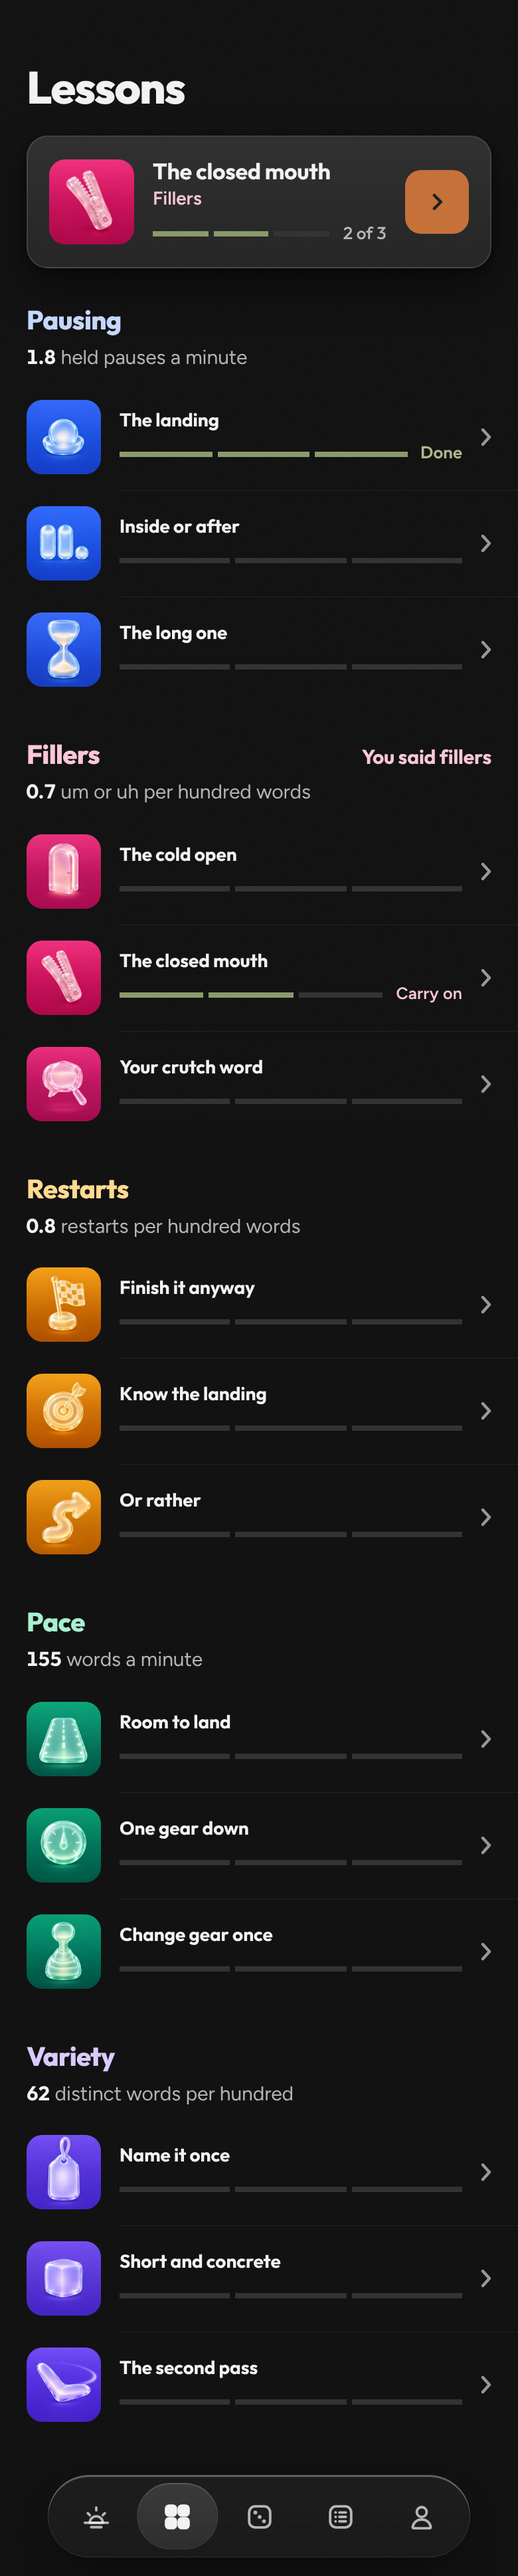
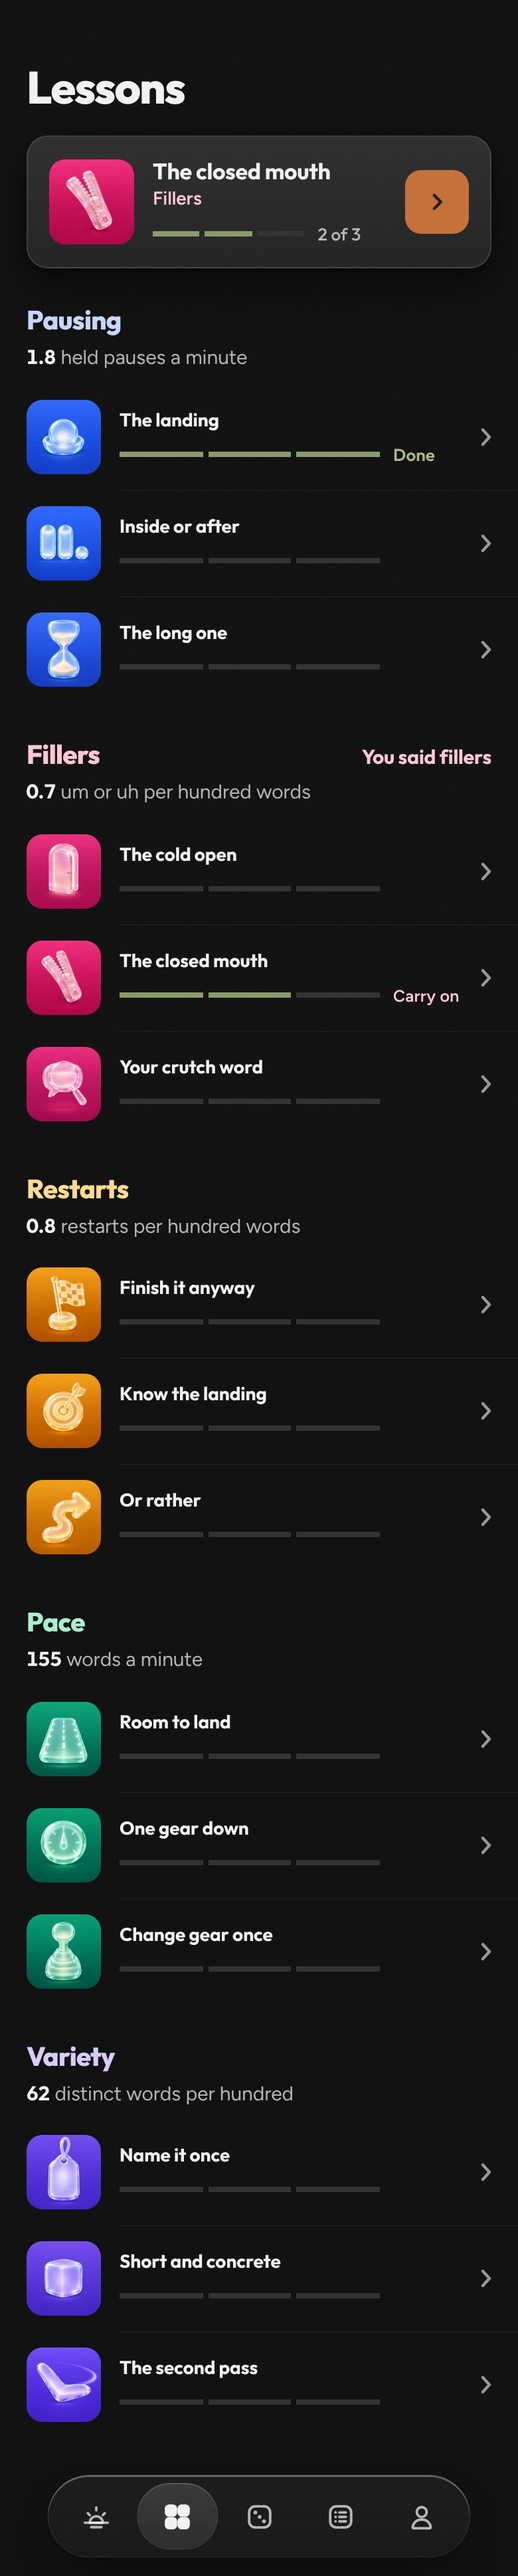
B2: the look loop on Lessons: bars end together, titles never truncate, skeletons hold height
Every progress bar ends at the same x (a fixed 52px label slot); the Up
next title wraps at 320 instead of ending in an ellipsis; the lesson
page's 'Your number' skeleton matches its real height. Squint shots added.

Claude-Session: https://claude.ai/code/session_01KQpi1wPL2sdqgKKvt94vrP

Changed region(s): [[0.7692, 0.3744, 0.8, 0.4056]]

diff --git a/app/lessons/[id]/page.tsx b/app/lessons/[id]/page.tsx
@@ -88,7 +88,11 @@ export default function LessonPage() {
       data-trait={lesson.trait}
       className="mx-auto flex min-h-dvh max-w-[430px] flex-col px-5 pt-4"
     >
-      <BackLink href="/lessons" label="Lessons" className="relative z-[1] self-start" />
+      <BackLink
+        href="/lessons"
+        label="Lessons"
+        className="relative z-[1] self-start"
+      />
 
       {/*
        * The stage (M06, Imprint's lesson sheet): the art stands on a dome
@@ -107,7 +111,9 @@ export default function LessonPage() {
         <LessonArt lesson={lesson} size={120} radius="rounded-card" eager />
       </div>
       <TraitChip trait={lesson.trait} size="md" className="mt-4 self-center" />
-      <h1 className="font-display mt-3 text-center text-title">{lesson.title}</h1>
+      <h1 className="font-display mt-3 text-center text-title">
+        {lesson.title}
+      </h1>
 
       {/*
        * Your number: where the trait this lesson works on stood on the
@@ -117,8 +123,8 @@ export default function LessonPage() {
        */}
       {reading === undefined && !failed && (
         <div aria-hidden className="mt-7">
-          <Skeleton className="h-[22px] w-28" rounded="rounded-none" />
-          <Skeleton className="mt-3 h-[25px] w-56" rounded="rounded-none" />
+          <Skeleton className="h-[22.125px] w-28" rounded="rounded-none" />
+          <Skeleton className="mt-3 h-[26.5px] w-56" rounded="rounded-none" />
         </div>
       )}
       {shown !== null && (
@@ -128,7 +134,9 @@ export default function LessonPage() {
             <span className="text-caption text-stone-500">Last recording</span>
           </div>
           <p className="mt-3 flex flex-wrap items-baseline gap-x-1.5">
-            <span className="font-display text-num-m tabular-nums">{shown}</span>
+            <span className="font-display text-num-m tabular-nums">
+              {shown}
+            </span>
             <span className="text-body text-stone-500">
               {shown === "1" ? trait.unitOne : trait.unit}
             </span>
@@ -159,7 +167,11 @@ export default function LessonPage() {
           const here = known && !complete && n === next;
           const mod = p.mods?.[0] ? modById(p.mods[0]) : null;
           return (
-            <li key={n} data-done={known ? did : undefined} className="flex gap-3.5">
+            <li
+              key={n}
+              data-done={known ? did : undefined}
+              className="flex gap-3.5"
+            >
               <span
                 aria-hidden
                 className={`font-display flex h-8 w-8 shrink-0 items-center justify-center rounded-[8px] text-row font-extrabold tabular-nums ${
@@ -177,7 +189,9 @@ export default function LessonPage() {
                   Practice {n}
                   {did ? ", done" : here ? ", next" : ""}.{" "}
                 </span>
-                <p className={`text-read text-pretty ${did ? "text-stone-500" : "text-stone-800"}`}>
+                <p
+                  className={`text-read text-pretty ${did ? "text-stone-500" : "text-stone-800"}`}
+                >
                   {p.prompt}
                 </p>
                 {/*
@@ -189,7 +203,8 @@ export default function LessonPage() {
                  */}
                 {mod && (
                   <p className="mt-1.5 text-caption text-stone-500">
-                    <span className="font-semibold text-ink">{mod.name}:</span> {mod.blurb}
+                    <span className="font-semibold text-ink">{mod.name}:</span>{" "}
+                    {mod.blurb}
                   </p>
                 )}
               </div>
@@ -209,7 +224,10 @@ export default function LessonPage() {
        */}
       <div
         className="sticky bottom-0 z-[1] -mx-5 mt-auto px-5 pt-6 pb-[calc(var(--nav-clear)-16px)]"
-        style={{ background: "linear-gradient(to bottom, transparent, var(--color-ground) 24px)" }}
+        style={{
+          background:
+            "linear-gradient(to bottom, transparent, var(--color-ground) 24px)",
+        }}
       >
         {known ? (
           <Link
@@ -220,7 +238,11 @@ export default function LessonPage() {
             })}
             className={ACTION_CLASS}
           >
-            {complete ? "Run it again" : done === 0 ? "Start" : `Practice ${next} of ${total}`}
+            {complete
+              ? "Run it again"
+              : done === 0
+                ? "Start"
+                : `Practice ${next} of ${total}`}
           </Link>
         ) : failed ? (
           <ErrorLine className="text-center" onRetry={retry}>

diff --git a/components/lessons/LessonCard.tsx b/components/lessons/LessonCard.tsx
@@ -85,7 +85,9 @@ export function progressLabel(done: number, total: number): string | null {
 /**
  * The bar and its label, one line. `cue` takes the label slot on the
  * row Up next points at ("Up next", "Carry on"), in the trait's ink, so
- * the row says it is the lesson on the card above (lessons-19).
+ * the row says it is the lesson on the card above (lessons-19). The slot
+ * keeps its width when it is empty, so every bar in a list ends at the
+ * same x whether or not its count is news (52px holds "Carry on").
  */
 function Progress({
   done,
@@ -102,25 +104,27 @@ function Progress({
   return (
     <span className={`flex h-4.5 items-center gap-2.5 ${className}`}>
       <SegmentBar total={total} done={done} className="min-w-0 flex-1" />
-      {cue ? (
-        <span
-          data-progress-label
-          className="whitespace-nowrap text-caption font-semibold tone-ink"
-        >
-          {cue}
-        </span>
-      ) : (
-        label && (
+      <span className="w-13 shrink-0">
+        {cue ? (
           <span
             data-progress-label
-            className={`whitespace-nowrap text-link tabular-nums ${
-              done >= total ? "text-sage-700" : "font-medium text-stone-500"
-            }`}
+            className="whitespace-nowrap text-caption font-semibold tone-ink"
           >
-            {label}
+            {cue}
           </span>
-        )
-      )}
+        ) : (
+          label && (
+            <span
+              data-progress-label
+              className={`whitespace-nowrap text-link tabular-nums ${
+                done >= total ? "text-sage-700" : "font-medium text-stone-500"
+              }`}
+            >
+              {label}
+            </span>
+          )
+        )}
+      </span>
     </span>
   );
 }
@@ -220,8 +224,12 @@ export function UpNextCard({ lesson, done }: { lesson: Lesson; done: number }) {
     >
       <LessonArt lesson={lesson} size={64} eager />
       <div className="min-w-0 flex-1">
-        <h2 className="font-display truncate text-detail">{lesson.title}</h2>
-        <div className="text-row font-semibold tone-ink">{TRAIT[lesson.trait].name}</div>
+        {/* One line at 390 (the longest title fits); at 320 it wraps
+            rather than ending in an ellipsis that hides the lesson's name. */}
+        <h2 className="font-display text-detail">{lesson.title}</h2>
+        <div className="text-row font-semibold tone-ink">
+          {TRAIT[lesson.trait].name}
+        </div>
         <Progress done={done} total={total} className="mt-2" />
       </div>
       <span

diff --git a/app/lessons/page.tsx b/app/lessons/page.tsx
@@ -41,7 +41,9 @@ export default function LessonsPage() {
      one lesson and then swaps to another (Skeleton's rule 1). */
   const [done, setDone] = useState<Record<string, number> | null>(null);
   /* Each trait's last reading, null while the log is in flight. */
-  const [readings, setReadings] = useState<Partial<Record<TraitId, number>> | null>(null);
+  const [readings, setReadings] = useState<Partial<
+    Record<TraitId, number>
+  > | null>(null);
   /* A failed read is its own state, never an empty log (#147). It used
      to land as done = {}, and the page said "Start" on a lesson they may
      have finished: no card, no bars, a line and a retry instead. */
@@ -101,10 +103,16 @@ export default function LessonsPage() {
               <h2 className="section-head tone-ink">{t.name}</h2>
               {/* Their own words, kept from the road (#231). */}
               {focus === t.id && (
-                <span className="section-head-aside tone-ink">You said {said}</span>
+                <span className="section-head-aside tone-ink">
+                  You said {said}
+                </span>
               )}
             </div>
-            <TraitNumber trait={t} raw={readings ? (readings[t.id] ?? null) : undefined} pending={!failed} />
+            <TraitNumber
+              trait={t}
+              raw={readings ? (readings[t.id] ?? null) : undefined}
+              pending={!failed}
+            />
             <div className="stagger mt-2">
               {mine.map((l, i) => (
                 <LessonRow
@@ -151,7 +159,9 @@ function TraitNumber({
   const shown = fmtRaw(raw);
   return (
     <p className="arrive mt-1 text-body text-stone-500">
-      <span className="font-display font-bold tabular-nums text-ink">{shown}</span>{" "}
+      <span className="font-display font-bold tabular-nums text-ink">
+        {shown}
+      </span>{" "}
       {shown === "1" ? trait.unitOne : trait.unit}
     </p>
   );
